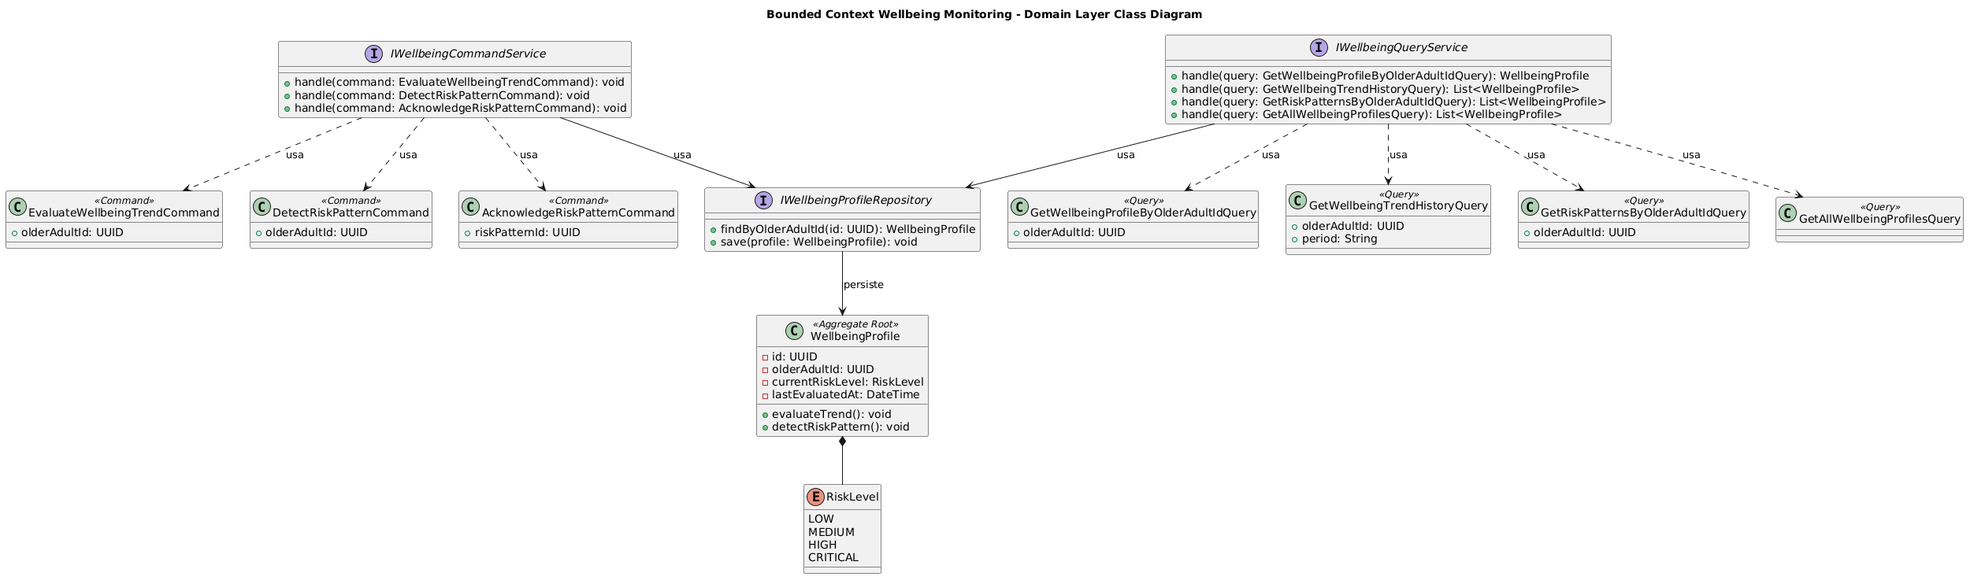
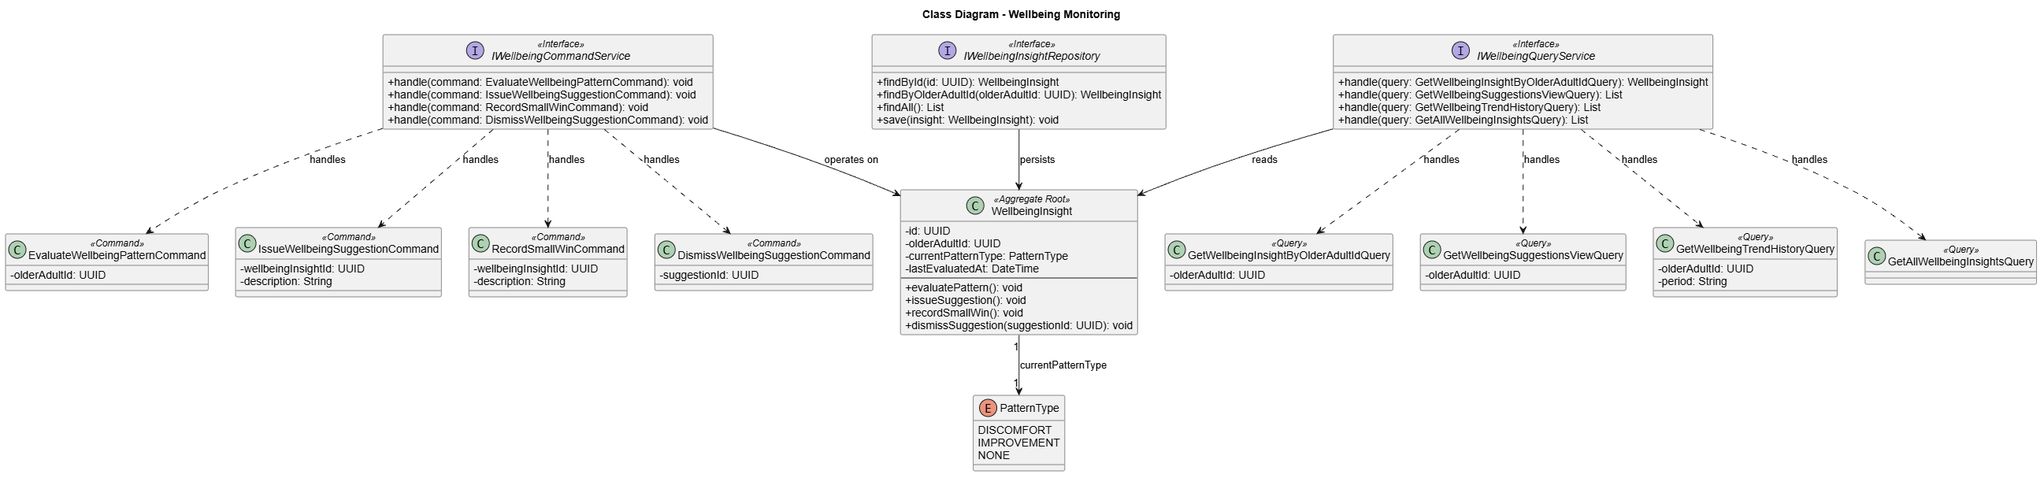
docs: alinear database design de Wellbeing Monitoring con el esquema oficial del team leader
Reemplaza wellbeing_insights/wellbeing_trends/wellbeing_suggestions por
wellbeing_entries, status_summaries, small_wins y wellbeing_patterns,
manteniendo la convencion de prefijo de 3 letras por tabla (wbe, sts,
smw, wbp).

diff --git a/README.md b/README.md
@@ -3203,7 +3203,7 @@ Como se observa en el diagrama, cada uno de los containers de Serenia se desplie
 
 ### 2.6.4. Bounded Context: Wellbeing Monitoring
 
-El bounded context **Wellbeing Monitoring** es responsable de interpretar el historial de check-ins registrados por el módulo **Daily Check-in** para generar tendencias de bienestar del adulto mayor, detectar patrones de riesgo y notificar dichos patrones al bounded context **Alerts and Safety**. A continuación se presenta el diseño táctico propuesto por el equipo para este bounded context, aplicando Domain-Driven Design.
+El bounded context **Wellbeing Monitoring** es responsable de interpretar el historial de check-ins registrados por el módulo **Daily Check-in** para generar un **Wellbeing Insight** del adulto mayor: detectar si existe un patrón de incomodidad sostenido (*Discomfort Pattern Detected*) o una mejora en la tendencia de bienestar (*Wellbeing Trend Improved*), y reaccionar en consecuencia emitiendo una sugerencia de bienestar (*Wellbeing Suggestion*) o registrando un pequeño logro (*Small Win*) para el cuidador a distancia. El diseño táctico presentado a continuación está alineado directamente con los eventos de dominio levantados en la sesión de EventStorming del bounded context (ver imagen).
 
 <br>
 
@@ -3213,7 +3213,7 @@ El bounded context **Wellbeing Monitoring** es responsable de interpretar el his
 
 | Tipo | Nombre | Descripción | Responsabilidad Principal | Relación con otros elementos |
 |---|---|---|---|---|
-| Aggregate | WellbeingProfile | Entidad que representa el perfil de bienestar acumulado de un adulto mayor | Ser el punto de entrada para registrar check-ins, calcular tendencias y mantener la integridad del estado de bienestar como entidad del dominio | Relacionado con el bounded context Daily Check-in (origen del historial de check-ins) y Alerts and Safety (destino de los patrones de riesgo detectados) |
+| Aggregate | WellbeingInsight | Entidad que representa la interpretación acumulada del bienestar de un adulto mayor, incluyendo el patrón de incomodidad o mejora de tendencia detectado más recientemente | Ser el punto de entrada para evaluar el historial de check-ins y mantener la integridad del estado de bienestar como entidad del dominio | Relacionado con el bounded context Daily Check-in (origen del historial de check-ins) y Alerts and Safety (destino de las sugerencias de bienestar emitidas) |
 
 <br>
 
@@ -3221,9 +3221,10 @@ El bounded context **Wellbeing Monitoring** es responsable de interpretar el his
 
 | Tipo | Nombre | Descripción | Responsabilidad Principal | Relación con otros elementos |
 |---|---|---|---|---|
-| Command | EvaluateWellbeingTrendCommand | Comando para evaluar la tendencia de bienestar de un adulto mayor | Representar la intención de recalcular la tendencia de bienestar a partir del historial de check-ins disponible | Usado en la implementación del servicio de comandos de bienestar |
-| Command | DetectRiskPatternCommand | Comando para ejecutar la detección de patrones de riesgo | Representar la intención de analizar las tendencias registradas y determinar si existe un patrón de riesgo | Usado en la implementación del servicio de comandos de bienestar |
-| Command | AcknowledgeRiskPatternCommand | Comando para marcar un patrón de riesgo como revisado | Representar la intención de que el equipo de Alerts and Safety confirme la revisión de un patrón de riesgo notificado | Usado en la implementación del servicio de comandos de bienestar |
+| Command | EvaluateWellbeingPatternCommand | Comando para evaluar el patrón de bienestar de un adulto mayor (evento de dominio *Evaluate Wellbeing Pattern*) | Representar la intención de analizar el historial de check-ins disponible y determinar si corresponde un *Discomfort Pattern Detected* o un *Wellbeing Trend Improved* | Usado en la implementación del servicio de comandos de bienestar |
+| Command | IssueWellbeingSuggestionCommand | Comando para emitir una sugerencia de bienestar (evento de dominio *Issue Wellbeing Suggestion*) | Representar la intención de emitir una sugerencia de bienestar cuando `EvaluateWellbeingPatternCommand` detecta un patrón de incomodidad | Usado en la implementación del servicio de comandos de bienestar |
+| Command | RecordSmallWinCommand | Comando para registrar un pequeño logro (evento de dominio *Record Small Win*) | Representar la intención de registrar un pequeño logro cuando `EvaluateWellbeingPatternCommand` detecta una mejora en la tendencia de bienestar | Usado en la implementación del servicio de comandos de bienestar |
+| Command | DismissWellbeingSuggestionCommand | Comando para descartar una sugerencia de bienestar (evento de dominio *Dismiss Wellbeing Suggestion*) | Representar la intención del cuidador a distancia de descartar una sugerencia de bienestar previamente emitida | Usado en la implementación del servicio de comandos de bienestar |
 
 <br>
 
@@ -3231,10 +3232,10 @@ El bounded context **Wellbeing Monitoring** es responsable de interpretar el his
 
 | Tipo | Nombre | Descripción | Responsabilidad Principal | Relación con otros elementos |
 |---|---|---|---|---|
-| Query | GetWellbeingProfileByOlderAdultIdQuery | Consulta para obtener el perfil de bienestar por identificador del adulto mayor | Representar la intención de obtener el estado de bienestar actual de un adulto mayor específico | Usado en la implementación del servicio de consultas |
+| Query | GetWellbeingInsightByOlderAdultIdQuery | Consulta para obtener el wellbeing insight por identificador del adulto mayor | Representar la intención de obtener el estado de bienestar actual de un adulto mayor específico | Usado en la implementación del servicio de consultas |
+| Query | GetWellbeingSuggestionsViewQuery | Consulta para obtener la vista de sugerencias de bienestar (evento de dominio *Wellbeing Suggestions View*) | Representar la intención del cuidador a distancia de visualizar las sugerencias de bienestar vigentes de un adulto mayor | Usado en la implementación del servicio de consultas |
 | Query | GetWellbeingTrendHistoryQuery | Consulta para obtener el historial de tendencias de bienestar | Representar la intención de obtener las tendencias calculadas para un adulto mayor en un rango de periodos | Usado en la implementación del servicio de consultas |
-| Query | GetRiskPatternsByOlderAdultIdQuery | Consulta para obtener los patrones de riesgo detectados | Representar la intención de obtener los patrones de riesgo asociados a un adulto mayor específico | Usado en la implementación del servicio de consultas |
-| Query | GetAllWellbeingProfilesQuery | Consulta para obtener todos los perfiles de bienestar | Representar la intención de obtener la lista completa de perfiles de bienestar registrados | Usado en la implementación del servicio de consultas |
+| Query | GetAllWellbeingInsightsQuery | Consulta para obtener todos los wellbeing insights | Representar la intención de obtener la lista completa de wellbeing insights registrados | Usado en la implementación del servicio de consultas |
 
 <br>
 
@@ -3242,7 +3243,7 @@ El bounded context **Wellbeing Monitoring** es responsable de interpretar el his
 
 | Tipo | Nombre | Descripción | Responsabilidad Principal | Relación con otros elementos |
 |---|---|---|---|---|
-| Interface | IWellbeingProfileRepository | Repositorio para operaciones de persistencia del modelo WellbeingProfile | Definir contratos para operaciones CRUD sobre los perfiles de bienestar | Implementado en la capa de Infrastructure |
+| Interface | IWellbeingInsightRepository | Repositorio para operaciones de persistencia del modelo WellbeingInsight | Definir contratos para operaciones CRUD sobre los wellbeing insights | Implementado en la capa de Infrastructure |
 
 <br>
 
@@ -3250,7 +3251,7 @@ El bounded context **Wellbeing Monitoring** es responsable de interpretar el his
 
 | Tipo | Nombre | Descripción | Responsabilidad Principal | Relación con otros elementos |
 |---|---|---|---|---|
-| Interface | IWellbeingCommandService | Servicio para métodos de comandos de bienestar | Estipular una estructura clara a seguir para operaciones de escritura (evaluación de tendencias y detección de riesgo) | Usado en la capa "Application" para implementar los métodos dados |
+| Interface | IWellbeingCommandService | Servicio para métodos de comandos de bienestar | Estipular una estructura clara a seguir para operaciones de escritura (evaluación de patrones, emisión de sugerencias, registro de logros) | Usado en la capa "Application" para implementar los métodos dados |
 | Interface | IWellbeingQueryService | Servicio para métodos de consulta de bienestar | Estipular una estructura clara a seguir para operaciones de lectura | Usado en la capa "Application" para la implementación de los métodos |
 
 <br>
@@ -3261,11 +3262,10 @@ El bounded context **Wellbeing Monitoring** es responsable de interpretar el his
 
 | Tipo | Nombre | Descripción | Responsabilidad Principal | Relación con otros elementos |
 |---|---|---|---|---|
-| Resource | WellbeingProfileResource | Estructura de datos de perfil de bienestar para API | Representar y exponer datos del perfil de bienestar de forma accesible y estructurada para el cliente | Usado en controladores para estructurar respuestas de perfil de bienestar |
+| Resource | WellbeingInsightResource | Estructura de datos de wellbeing insight para API | Representar y exponer datos del wellbeing insight de forma accesible y estructurada para el cliente | Usado en controladores para estructurar respuestas de wellbeing insight |
+| Resource | WellbeingSuggestionsViewResource | Estructura de datos de la vista de sugerencias de bienestar para API | Representar y exponer las sugerencias de bienestar vigentes de forma accesible para el cliente | Usado en controladores para estructurar la respuesta de `Wellbeing Suggestions View` |
 | Resource | WellbeingTrendResource | Estructura de datos de tendencia de bienestar para API | Representar y exponer una tendencia calculada de forma accesible para el cliente | Usado en controladores para estructurar respuestas de historial de tendencias |
-| Resource | RiskPatternResource | Estructura de datos de patrón de riesgo para API | Representar y exponer un patrón de riesgo detectado de forma accesible para el cliente | Usado en controladores para estructurar respuestas de patrones de riesgo |
-| Resource | EvaluateWellbeingTrendResource | Estructura de petición para evaluar la tendencia de bienestar | Representar datos de entrada necesarios para solicitar el recálculo de una tendencia | Usado en controlador para procesar peticiones de evaluación |
-| Resource | AcknowledgeRiskPatternResource | Estructura de petición para confirmar la revisión de un patrón de riesgo | Representar datos necesarios para identificar y marcar como revisado un patrón de riesgo | Usado en controlador para procesar peticiones de confirmación |
+| Resource | DismissWellbeingSuggestionResource | Estructura de petición para descartar una sugerencia de bienestar | Representar datos necesarios para identificar y marcar como descartada una sugerencia de bienestar | Usado en controlador para procesar peticiones de descarte |
 
 <br>
 
@@ -3273,10 +3273,10 @@ El bounded context **Wellbeing Monitoring** es responsable de interpretar el his
 
 | Tipo | Nombre | Descripción | Responsabilidad Principal | Relación con otros elementos |
 |---|---|---|---|---|
-| Assembler | WellbeingProfileResourceFromEntityAssembler | Transformador de entidad WellbeingProfile a WellbeingProfileResource | Convertir la entidad del dominio a su representación REST correspondiente | Usado en controladores para transformar respuestas |
+| Assembler | WellbeingInsightResourceFromEntityAssembler | Transformador de entidad WellbeingInsight a WellbeingInsightResource | Convertir la entidad del dominio a su representación REST correspondiente | Usado en controladores para transformar respuestas |
+| Assembler | WellbeingSuggestionsViewResourceFromEntityAssembler | Transformador del read model de sugerencias vigentes a WellbeingSuggestionsViewResource | Convertir el read model del dominio a su representación REST correspondiente | Usado en controladores para transformar la respuesta de `Wellbeing Suggestions View` |
 | Assembler | WellbeingTrendResourceFromEntityAssembler | Transformador de entidad WellbeingTrend a WellbeingTrendResource | Convertir la entidad del dominio a su representación REST correspondiente | Usado en controladores para transformar respuestas |
-| Assembler | EvaluateWellbeingTrendCommandFromResourceAssembler | Transformador de EvaluateWellbeingTrendResource a EvaluateWellbeingTrendCommand | Convertir la petición REST a comando del dominio | Usado en controlador para procesar peticiones de evaluación |
-| Assembler | AcknowledgeRiskPatternCommandFromResourceAssembler | Transformador de AcknowledgeRiskPatternResource a AcknowledgeRiskPatternCommand | Convertir la petición REST a comando del dominio | Usado en controlador para procesar peticiones de confirmación |
+| Assembler | DismissWellbeingSuggestionCommandFromResourceAssembler | Transformador de DismissWellbeingSuggestionResource a DismissWellbeingSuggestionCommand | Convertir la petición REST a comando del dominio | Usado en controlador para procesar peticiones de descarte |
 
 <br>
 
@@ -3284,7 +3284,7 @@ El bounded context **Wellbeing Monitoring** es responsable de interpretar el his
 
 | Tipo | Nombre | Descripción | Responsabilidad Principal | Relación con otros elementos |
 |---|---|---|---|---|
-| Consumer | CheckInRecordedConsumer | Consumidor interno del evento de dominio CheckInRecorded | Escuchar, dentro del monolito modular, el evento publicado por el módulo Daily Check-in para desencadenar el `EvaluateWellbeingTrendCommand` correspondiente | Usado como puente entre el bounded context Daily Check-in y Wellbeing Monitoring |
+| Consumer | CheckInRecordedConsumer | Consumidor interno del evento de dominio CheckInRecorded | Escuchar, dentro del monolito modular, el evento publicado por el módulo Daily Check-in para desencadenar el `EvaluateWellbeingPatternCommand` correspondiente | Usado como puente entre el bounded context Daily Check-in y Wellbeing Monitoring |
 
 <br>
 
@@ -3294,7 +3294,7 @@ El bounded context **Wellbeing Monitoring** es responsable de interpretar el his
 
 | Tipo | Nombre | Descripción | Responsabilidad Principal | Relación con otros elementos |
 |---|---|---|---|---|
-| CommandHandler | WellbeingCommandService | Implementación de comandos de bienestar | Implementar los métodos para evaluar tendencias, detectar patrones de riesgo y publicar el evento `RiskPatternDetected` | Implementa los métodos de la interface IWellbeingCommandService en la capa de "Services" |
+| CommandHandler | WellbeingCommandService | Implementación de comandos de bienestar | Implementar los métodos para evaluar el patrón de bienestar y publicar los eventos `DiscomfortPatternDetected` o `WellbeingTrendImproved`, emitir sugerencias (`WellbeingSuggestionIssued`), registrar pequeños logros (`SmallWinRecorded`) y descartar sugerencias (`WellbeingSuggestionDismissed`) | Implementa los métodos de la interface IWellbeingCommandService en la capa de "Services" |
 
 <br>
 
@@ -3302,7 +3302,7 @@ El bounded context **Wellbeing Monitoring** es responsable de interpretar el his
 
 | Tipo | Nombre | Descripción | Responsabilidad Principal | Relación con otros elementos |
 |---|---|---|---|---|
-| QueryHandler | WellbeingQueryService | Implementación de consultas de bienestar | Implementar los métodos para las consultas de perfiles, tendencias y patrones de riesgo | Implementa los métodos de la interface IWellbeingQueryService en la capa de "Services" |
+| QueryHandler | WellbeingQueryService | Implementación de consultas de bienestar | Implementar los métodos para las consultas de wellbeing insights, tendencias y la vista de sugerencias de bienestar | Implementa los métodos de la interface IWellbeingQueryService en la capa de "Services" |
 
 <br>
 
@@ -3312,20 +3312,18 @@ El bounded context **Wellbeing Monitoring** es responsable de interpretar el his
 
 | Tipo | Nombre | Descripción | Responsabilidad Principal | Relación con otros elementos |
 |---|---|---|---|---|
-| Repository | WellbeingProfileRepository | Repositorio para uso del modelo "WellbeingProfile" | Acceder y manipular datos persistidos de perfiles de bienestar y sus tendencias en la base de datos | Usado en la capa "Application" para implementar operaciones CRUD de perfiles de bienestar |
+| Repository | WellbeingInsightRepository | Repositorio para uso del modelo "WellbeingInsight" | Acceder y manipular datos persistidos de wellbeing insights, sus tendencias, sugerencias y pequeños logros en la base de datos | Usado en la capa "Application" para implementar operaciones CRUD de wellbeing insights |
 
 <br>
 
 #### 2.6.4.5. Bounded Context Software Architecture Component Level Diagrams
 
-En esta sección se presenta el Component Diagram de C4 Model correspondiente al bounded context Wellbeing Monitoring, elaborado con la herramienta Structurizr. El diagrama muestra la descomposición interna del bounded context en sus clases principales, agrupadas según su rol dentro de la arquitectura: el `WellbeingController` como punto de entrada de las peticiones REST; los *Resources* (`WellbeingProfileResource`, `WellbeingTrendResource`, `RiskPatternResource`, `EvaluateWellbeingTrendResource`, `AcknowledgeRiskPatternResource`) que estructuran los datos expuestos por la API; los *Assemblers*, encargados de transformar entre resources, commands y la entidad de dominio `WellbeingProfile`; los *Commands* y *Queries* que representan las intenciones de escritura y lectura del bounded context; los servicios `WellbeingCommandService` y `WellbeingQueryService`, que implementan dichas operaciones e implementan a su vez las interfaces `IWellbeingCommandService` e `IWellbeingQueryService`; y finalmente `IWellbeingProfileRepository`, implementado por `WellbeingProfileRepository`, que gestiona la persistencia del agregado. Se incluye además `CheckInRecordedConsumer`, componente que escucha el evento `CheckInRecorded` publicado por el bounded context Daily Check-in para desencadenar la evaluación de una nueva tendencia de bienestar.
-
-<br>
+En esta sección se presenta el Component Diagram de C4 Model correspondiente al bounded context Wellbeing Monitoring, elaborado con la herramienta Structurizr. El diagrama muestra la descomposición interna del bounded context en sus clases principales, agrupadas según su rol dentro de la arquitectura: el `WellbeingController` como punto de entrada de las peticiones REST; los *Resources* (`WellbeingInsightResource`, `WellbeingSuggestionsViewResource`, `WellbeingTrendResource`, `DismissWellbeingSuggestionResource`) que estructuran los datos expuestos por la API; los *Assemblers*, encargados de transformar entre resources, commands y la entidad de dominio `WellbeingInsight`; los *Commands* (`EvaluateWellbeingPatternCommand`, `IssueWellbeingSuggestionCommand`, `RecordSmallWinCommand`, `DismissWellbeingSuggestionCommand`) y *Queries* que representan las intenciones de escritura y lectura del bounded context; los servicios `WellbeingCommandService` y `WellbeingQueryService`, que implementan dichas operaciones e implementan a su vez las interfaces `IWellbeingCommandService` e `IWellbeingQueryService`; y finalmente `IWellbeingInsightRepository`, implementado por `WellbeingInsightRepository`, que gestiona la persistencia del agregado. Se incluye además `CheckInRecordedConsumer`, componente que escucha el evento `CheckInRecorded` publicado por el bounded context Daily Check-in para desencadenar la evaluación de un nuevo wellbeing insight.
 
 <div align="center">
 
 ![Component Diagram - Wellbeing Monitoring](assets/img/bounded-context/wellbeing-monitoring/wellbeing-diagram.png)
-  <br/><i>Imagen 17. Component Diagram del Bounded Context Wellbeing Monitoring.</i>
+  <br/><i>Imagen 24: Component Diagram del Bounded Context Wellbeing Monitoring.</i>
 
 </div>
 
@@ -3335,69 +3333,76 @@ En esta sección se presenta el Component Diagram de C4 Model correspondiente al
 
 ##### 2.6.4.6.1. Bounded Context Domain Layer Class Diagrams
 
-Diagrama de clases de la capa Domain: En esta imagen se muestran las clases del dominio Wellbeing Monitoring que incluyen `WellbeingProfile` como aggregate root, Commands para las operaciones de evaluación de tendencias y gestión de patrones de riesgo, Queries para las consultas de información de bienestar, e interfaces para los servicios de dominio con sus respectivas implementaciones.
+Diagrama de clases de la capa Domain: En esta imagen se muestran las clases del dominio Wellbeing Monitoring que incluyen `WellbeingInsight` como aggregate root, Commands para las operaciones de evaluación de patrones, emisión de sugerencias y registro de pequeños logros, Queries para las consultas de información de bienestar, e interfaces para los servicios de dominio con sus respectivas implementaciones. El diagrama fue elaborado en PlantUML.
 
-<br>
 <div align="center">
 
 ![Domain Layer Class Diagram - Wellbeing Monitoring](assets/img/bounded-context/wellbeing-monitoring/wellbeing-class-diagram.png)
-  <br/><i>Imagen 18. Domain Layer Class Diagram del Bounded Context Wellbeing Monitoring.</i>
+  <br/><i>Imagen 25: Domain Layer Class Diagram del Bounded Context Wellbeing Monitoring.</i>
 
 </div>
+
+<br>
 
 <br>
 
 ##### 2.6.4.6.2. Bounded Context Database Design Diagram
 
-<br>
+Diagrama de base de datos: En esta imagen se muestra el diseño de las tablas correspondientes al Bounded Context Wellbeing Monitoring, compuesto por `wellbeing_entries` (registro de estado de ánimo asociado a cada check-in), `status_summaries` (resumen diario del estado del adulto mayor), `small_wins` (historial de pequeños logros registrados) y `wellbeing_patterns` (patrones de malestar sostenido o mejora detectados en el historial de check-ins), relacionadas mediante llaves foráneas hacia `users` (Identity & Access) y `check_ins` (Daily Check-in). Los nombres de las columnas siguen la convención de nomenclatura del equipo, prefijando cada campo con el código de 3 letras de su tabla (`wbe`, `sts`, `smw`, `wbp`).
 
-**Tabla `wellbeing_profiles`:**
-
-| Nombre | Descripción |
-|---|---|
-| wbp_id | Identificador único del registro, clave primaria de la tabla (prefijo `wbp` de `wellbeing_profiles`). |
-| wbp_created_at | Fecha y hora en que se creó el registro. |
-| wbp_updated_at | Fecha y hora de la última actualización del registro. |
-| wbp_older_adult_id | Identificador del adulto mayor al que pertenece el perfil de bienestar (referencia al bounded context IAM). |
-| wbp_current_risk_level | Nivel de riesgo actual del perfil (LOW, MEDIUM, HIGH, CRITICAL). |
-| wbp_last_evaluated_at | Fecha y hora de la última evaluación de tendencia realizada sobre el perfil. |
-
-<br>
-
-**Tabla `wellbeing_trends`:**
+**Tabla `wellbeing_entries`:**
 
 | Nombre | Descripción |
 |---|---|
-| wbt_id | Identificador único del registro, clave primaria de la tabla (prefijo `wbt` de `wellbeing_trends`). |
-| wbt_created_at | Fecha y hora en que se creó el registro. |
-| wbt_wbp_id | Llave foránea hacia `wellbeing_profiles.wbp_id`; identifica el perfil de bienestar al que pertenece la tendencia calculada. |
-| wbt_period | Periodo sobre el cual se calculó la tendencia (WEEKLY, MONTHLY). |
-| wbt_score | Puntaje numérico de bienestar calculado para el periodo (0-100). |
-| wbt_generated_at | Fecha y hora en que se generó la tendencia. |
+| wbe_id | Identificador único del registro, clave primaria de la tabla (prefijo `wbe` de `wellbeing_entries`). |
+| wbe_older_adult_id | Llave foránea hacia `users.id`; identifica al adulto mayor al que pertenece el registro de estado de ánimo. |
+| wbe_check_in_id | Llave foránea hacia `check_ins.id`; identifica el check-in del cual se derivó este registro de estado de ánimo. |
+| wbe_mood | Nivel de ánimo reportado en el check-in (VERY_LOW, LOW, NEUTRAL, GOOD, VERY_GOOD). |
+| wbe_mood_score | Puntaje numérico asociado al nivel de ánimo reportado. |
+| wbe_recorded_at | Fecha y hora en que se registró el estado de ánimo. |
 
-<br>
-
-**Tabla `risk_patterns`:**
+**Tabla `status_summaries`:**
 
 | Nombre | Descripción |
 |---|---|
-| rsp_id | Identificador único del registro, clave primaria de la tabla (prefijo `rsp` de `risk_patterns`). |
-| rsp_created_at | Fecha y hora en que se creó el registro. |
-| rsp_wbp_id | Llave foránea hacia `wellbeing_profiles.wbp_id`; identifica el perfil de bienestar al que pertenece el patrón de riesgo detectado. |
-| rsp_risk_level | Nivel de riesgo del patrón detectado (LOW, MEDIUM, HIGH, CRITICAL). |
-| rsp_description | Descripción del patrón de riesgo, generada a partir del análisis del historial de check-ins. |
-| rsp_detected_at | Fecha y hora en que se detectó el patrón de riesgo. |
-| rsp_acknowledged | Indica si el patrón de riesgo detectado ya fue revisado por el equipo de Alerts and Safety. |
-| rsp_acknowledged_at | Fecha y hora en que se confirmó la revisión del patrón de riesgo. |
+| sts_id | Identificador único del registro, clave primaria de la tabla (prefijo `sts` de `status_summaries`). |
+| sts_older_adult_id | Llave foránea hacia `users.id`; identifica al adulto mayor al que pertenece el resumen diario. |
+| sts_summary_date | Fecha a la que corresponde el resumen de estado. |
+| sts_mood | Estado de ánimo predominante del día resumido. |
+| sts_has_answered | Indica si el adulto mayor respondió su check-in ese día. |
+| sts_highlight | Dato destacado del día, mostrado al cuidador a distancia. |
+| sts_generated_at | Fecha y hora en que se generó el resumen. |
+
+**Tabla `small_wins`:**
+
+| Nombre | Descripción |
+|---|---|
+| smw_id | Identificador único del registro, clave primaria de la tabla (prefijo `smw` de `small_wins`). |
+| smw_older_adult_id | Llave foránea hacia `users.id`; identifica al adulto mayor al que pertenece el pequeño logro registrado. |
+| smw_check_in_id | Llave foránea hacia `check_ins.id`; identifica el check-in del cual se derivó el pequeño logro, cuando aplica. |
+| smw_description | Descripción del pequeño logro, generada a partir de una mejora detectada en el patrón de bienestar. |
+| smw_recorded_at | Fecha y hora en que se registró el pequeño logro. |
+
+**Tabla `wellbeing_patterns`:**
+
+| Nombre | Descripción |
+|---|---|
+| wbp_id | Identificador único del registro, clave primaria de la tabla (prefijo `wbp` de `wellbeing_patterns`). |
+| wbp_older_adult_id | Llave foránea hacia `users.id`; identifica al adulto mayor al que pertenece el patrón detectado. |
+| wbp_type | Tipo de patrón detectado en el historial de check-ins (SUSTAINED_DISCOMFORT, IMPROVEMENT). |
+| wbp_consecutive_days | Cantidad de días consecutivos que sostienen el patrón detectado. |
+| wbp_start_date | Fecha de inicio del periodo en que se detectó el patrón. |
+| wbp_end_date | Fecha de fin del periodo en que se detectó el patrón. |
+| wbp_detected_at | Fecha y hora en que se detectó el patrón. |
 
 <br>
-
 <div align="center">
 
 ![Database Design Diagram - Wellbeing Monitoring](assets/img/bounded-context/wellbeing-monitoring/wellbeing-database-diagram.png)
-  <br/><i>Imagen 19: Database Design Diagram del Bounded Context Wellbeing Monitoring.</i>
+  <br/><i>Imagen 26: Database Design Diagram del Bounded Context Wellbeing Monitoring.</i>
 
 </div>
+
 <br>
 
 
